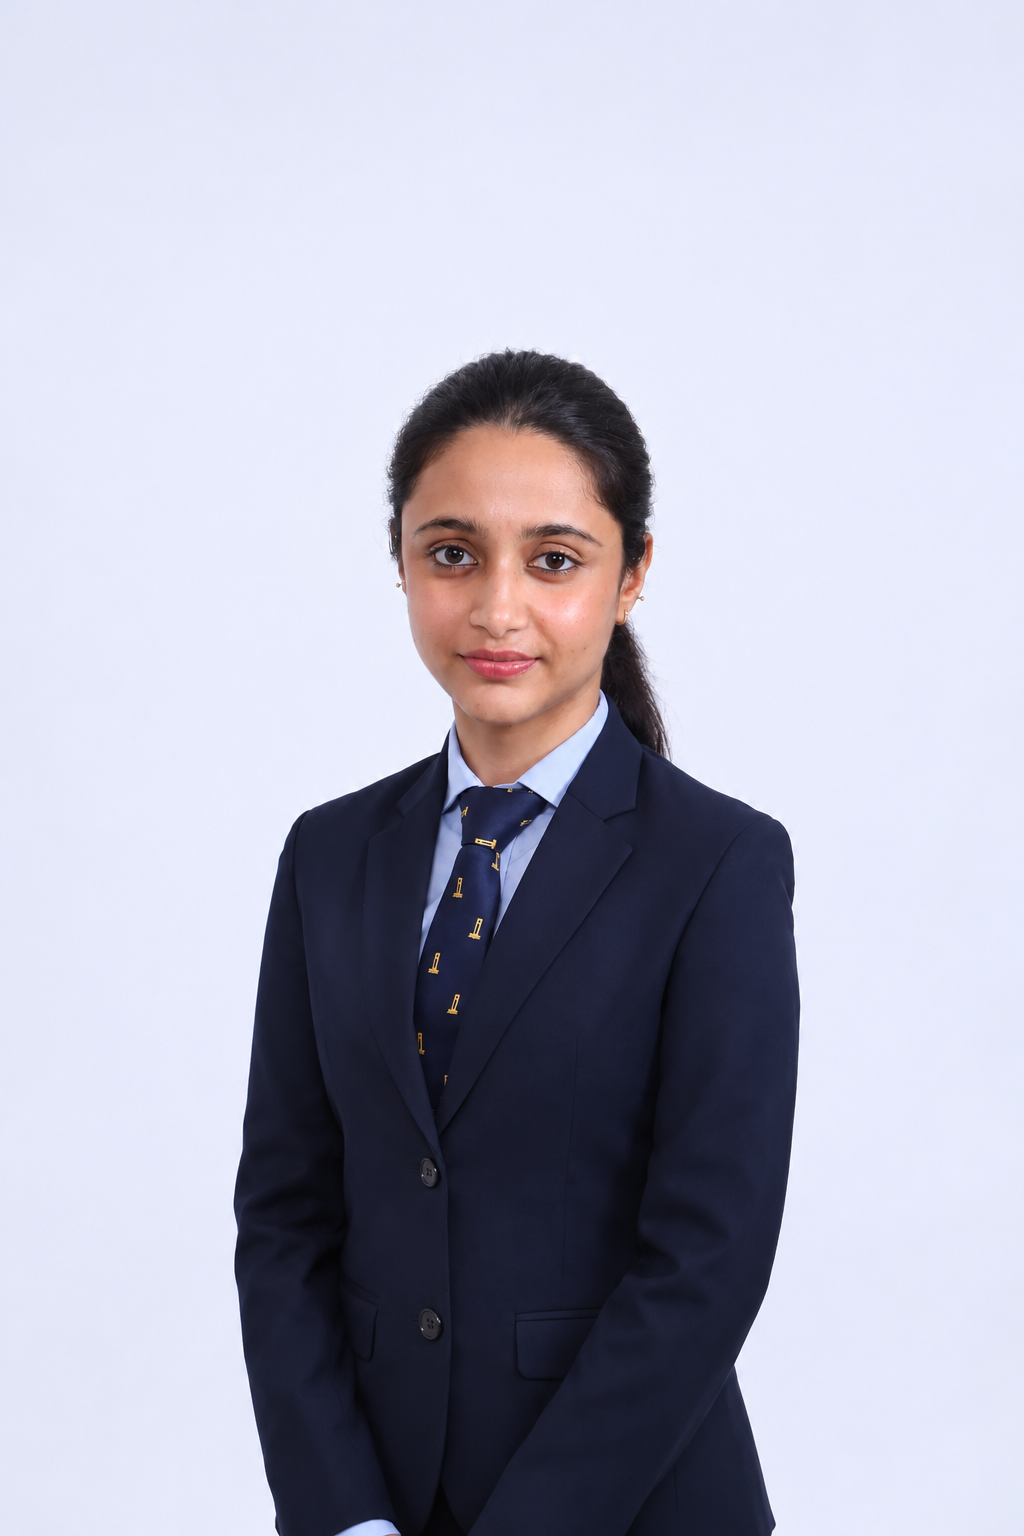
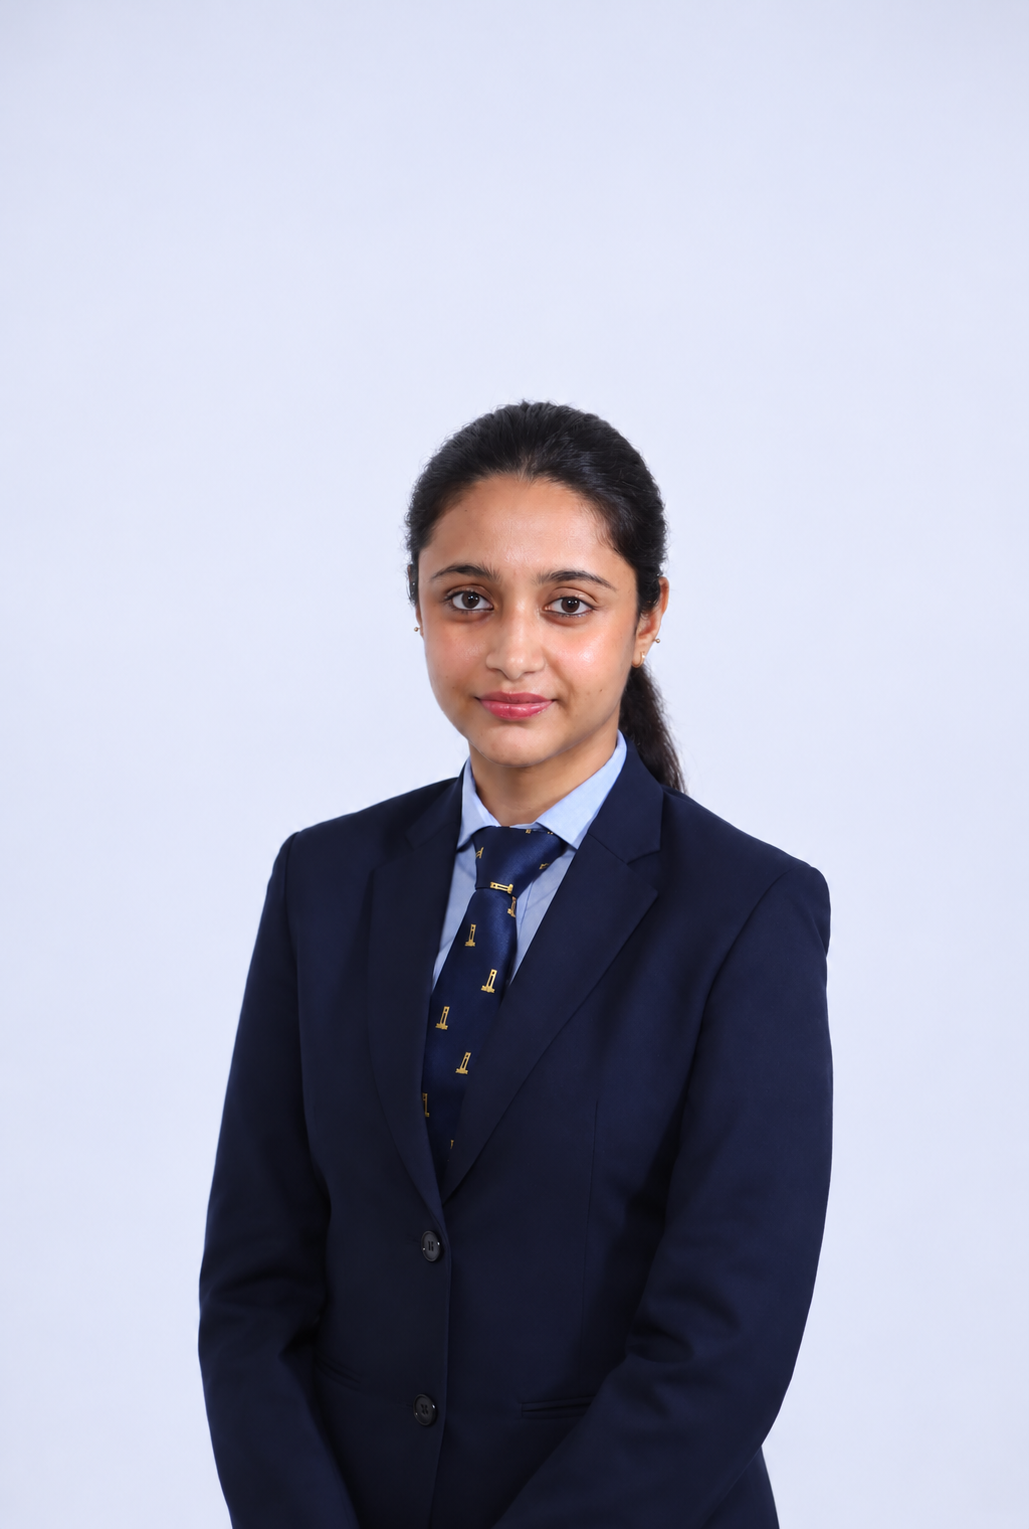
adjust the spacing between different sections accoss teams and service , added third image in slider

diff --git a/app/about/team/page.js b/app/about/team/page.js
@@ -1,81 +1,153 @@
+
 import SubHero from "../../components/SubHero";
 import Link from "next/link";
 
-export const metadata = { title: "Team — The Hospital Increators" };
+export const metadata = {
+  title: "Team — The Hospital Increators",
+};
 
 const LEADERSHIP = [
-  { name: "Dr. Arun Verma", photo: "/images/photo.png", designation: "Director and CEO", href: "/about/dr-arun-verma" },
-  { name: "Dr. Nitin Garg", photo: "/images/image2.png", designation: "Associate", href: "/about/dr-nitin-garg" },
+  {
+    name: "Dr. Arun Verma",
+    photo: "/images/photo.png",
+    designation: "Director and CEO",
+    href: "/about/dr-arun-verma",
+  },
+  {
+    name: "Dr. Nitin Garg",
+    photo: "/images/image2.png",
+    designation: "Associate",
+    href: "/about/dr-nitin-garg",
+  },
 ];
 
 const TEAM = [
-  { id: "team-member-1", name: "Ar. Varun Sharma", photo: "/images/t1.png", designation: "Senior Medical Architect" },
-  { id: "team-member-3", name: "Ar. Hirdesh Sharma", photo: "/images/t3.png", designation: "Senior Medical Architect" },
-  { id: "team-member-2", name: "Kuldeep Singh", photo: "/images/t2.png", designation: "Chartered Accountant | Healthcare Financial Consultant" },
-  { id: "team-member-4", name: "Dr. Harshita Kapil", photo: "/images/t4.png", designation: "BDS, PGDM (Healthcare Management)- IIHMR Delhi" },
-  { id: "team-member-5", name: "Pushkar Chandra", photo: "/images/t5.png", designation: "IT Analyst | B.Tech CSE " },
+  {
+    id: "team-member-1",
+    name: "Ar. Varun Sharma",
+    photo: "/images/t1.png",
+    designation: "Senior Medical Architect",
+  },
+  {
+    id: "team-member-3",
+    name: "Ar. Hirdesh Sharma",
+    photo: "/images/t3.png",
+    designation: "Senior Medical Architect",
+  },
+  {
+    id: "team-member-2",
+    name: "CA Kuldeep Singh",
+    photo: "/images/t2.png",
+    designation:
+      "Healthcare Financial Consultant",
+  },
+  {
+    id: "team-member-4",
+    name: "Dr. Harshita Kapil",
+    photo: "/images/t4.png",
+    designation:
+      "BDS, PGDM (Healthcare Management)- IIHMR Delhi",
+  },
+  {
+    id: "team-member-5",
+    name: "Er. Pushkar Chandra",
+    photo: "/images/t5.png",
+    designation: "IT Analyst | B.Tech CSE",
+  },
 ];
 
 export default function Page() {
   return (
     <>
-      <SubHero title="Our Team" lead="The people behind your project." />
-      <section aria-labelledby="leadership-heading">
-        <h2 id="leadership-heading" style={{ fontSize: 40, marginBottom: 8 }}>The Leadership</h2>
+      <SubHero
+        title="Our Team"
+        lead="The people behind your project."
+      />
+
+      {/* Leadership Section */}
+      <section
+        aria-labelledby="leadership-heading"
+        className="leadership-section"
+      >
+        <h2
+          id="leadership-heading"
+          style={{ fontSize: 40, marginBottom: 8 }}
+        >
+          The Leadership
+        </h2>
+
         <div className="cols">
-          {LEADERSHIP.map(({ name, photo, designation, href }) => (
-            <article
-              key={name}
-              className="glass panel center"
-              style={{ padding: 32, minHeight: 340 }}
-            >
-              <Link href={href} aria-label={`View ${name}'s profile`}>
-                <img
-                  src={photo}
-                  alt={name}
-                  style={{
-                    width: 220,
-                    height: 220,
-                    objectFit: "cover",
-                    borderRadius: "50%",
-                    margin: "0 auto 14px",
-                    display: "block",
-                  }}
-                />
-              </Link>
-              <h3>{name}</h3>
-              <p>{designation}</p>
-            </article>
-          ))}
+          {LEADERSHIP.map(
+            ({ name, photo, designation, href }) => (
+              <article
+                key={name}
+                className="glass panel center"
+                style={{ padding: 32, minHeight: 340 }}
+              >
+                <Link
+                  href={href}
+                  aria-label={`View ${name}'s profile`}
+                >
+                  <img
+                    src={photo}
+                    alt={name}
+                    style={{
+                      width: 220,
+                      height: 220,
+                      objectFit: "cover",
+                      borderRadius: "50%",
+                      margin: "0 auto 14px",
+                      display: "block",
+                    }}
+                  />
+                </Link>
+
+                <h3>{name}</h3>
+                <p>{designation}</p>
+              </article>
+            )
+          )}
         </div>
       </section>
 
-      <section aria-labelledby="team-heading" style={{ marginTop: 40 }}>
+      {/* Team Section */}
+      <section
+        aria-labelledby="team-heading"
+        className="team-leadership"
+      >
         <h2 id="team-heading">The Team</h2>
+
         <div className="cols">
-          {TEAM.map(({ id, name, photo, designation, experience }) => (
-            <article key={id} className="glass panel center">
-              {photo ? (
-                <img
-                  src={photo}
-                  alt={name}
-                  style={{
-                    width: 160,
-                    height: 160,
-                    objectFit: "cover",
-                    borderRadius: "50%",
-                    margin: "0 auto 14px",
-                    display: "block",
-                  }}
-                />
-              ) : (
-                <div className="avatar" aria-hidden="true">+</div>
-              )}
-              <h3>{name}</h3>
-              <p>{designation}</p>
-              <p>{experience}</p>
-            </article>
-          ))}
+          {TEAM.map(
+            ({ id, name, photo, designation }) => (
+              <article
+                key={id}
+                className="glass panel center"
+              >
+                {photo ? (
+                  <img
+                    src={photo}
+                    alt={name}
+                    style={{
+                      width: 160,
+                      height: 160,
+                      objectFit: "cover",
+                      borderRadius: "50%",
+                      margin: "0 auto 14px",
+                      display: "block",
+                    }}
+                  />
+                ) : (
+                  <div className="avatar" aria-hidden="true">
+                    +
+                  </div>
+                )}
+
+                <h3>{name}</h3>
+                <p>{designation}</p>
+              </article>
+            )
+          )}
         </div>
       </section>
     </>

diff --git a/app/globals.css b/app/globals.css
@@ -84,7 +84,9 @@ a{color:inherit;text-decoration:none}
 
 main{max-width:1160px;margin:0 auto;padding:0 22px}
 
-section{padding:110px 0 30px;scroll-margin-top:60px}
+section{padding:110px 0 2px;scroll-margin-top:60px}
+section#services{padding-top:20px}
+@media(max-width:900px){section#services{padding-top:9px}}
 
 .hero{padding-top:170px;text-align:center}
 
@@ -1332,29 +1334,26 @@ button:disabled,
   background: #201612;
 }
 
+
+/* Slider track - 4 slides including duplicate */
+
 /* Slider track */
 .yc-slider {
   display: flex;
-  width: 200%;
+  width: 400%;
   height: 100%;
-  animation: ycSlide 8s infinite;
+  animation: ycSlide 12s infinite;
 }
 
 /* Individual slides */
 .yc-slide {
-  flex: 0 0 50%;
-  width: 50%;
+  flex: 0 0 25%;
+  width: 25%;
   height: 100%;
   display: flex;
   align-items: center;
   justify-content: center;
   overflow: hidden;
-  background: #201612;
-}
-
-/* Both slide backgrounds */
-.yc-slide:first-child,
-.yc-slide:last-child {
   background: #201612;
 }
 
@@ -1367,20 +1366,25 @@ button:disabled,
   object-position: center;
 }
 
-/* Sliding animation */
+/* Smooth three-image looping */
 @keyframes ycSlide {
-  0%, 45% {
+  0%, 22% {
     transform: translateX(0);
   }
 
-  50%, 95% {
+  25%, 47% {
+    transform: translateX(-25%);
+  }
+
+  50%, 72% {
     transform: translateX(-50%);
   }
 
-  100% {
-    transform: translateX(0);
+  75%, 100% {
+    transform: translateX(-75%);
   }
 }
+
 
 /* Mobile responsive */
 
@@ -1405,5 +1409,28 @@ button:disabled,
 @media (prefers-reduced-motion: reduce) {
   .yc-slider {
     animation: none;
+  }
+}
+
+/* Leadership section - reduce gap after Our Team intro */
+.leadership-section {
+  padding-top: 20px;
+}
+
+/* Mobile spacing */
+@media (max-width: 900px) {
+  .leadership-section {
+    padding-top: 12px;
+  }
+}
+
+/* Existing Team section spacing - preserved */
+.team-leadership {
+  padding: 35px 0 15px;
+}
+
+@media (max-width: 900px) {
+  .team-leadership {
+    padding-top: 45px;
   }
 }

diff --git a/app/page.js b/app/page.js
@@ -140,20 +140,31 @@ export default function Page() {
       <Island />
       <main>
         <div className="yc-brandmark">
-          <div className="yc-slider">
-            <div className="yc-slide">
-              <img
-                src="/images/bg.png"
-                alt="Building Hospitals. Transforming Healthcare. Shaping Tomorrow."
-              />
-            </div>
-            <div className="yc-slide">
-              <img
-                src="/images/services.png"
-                alt="The Hospital Increators - Services and Expertise"
-              />
-            </div>
-          </div>
+        
+<div className="yc-slider">
+
+  {/* Slide 1 */}
+  <div className="yc-slide">
+    <img src="/images/bg.png" alt="Building Hospitals" />
+  </div>
+
+  {/* Slide 2 */}
+  <div className="yc-slide">
+    <img src="/images/services.png" alt="Services and Expertise" />
+  </div>
+
+  {/* Slide 3 */}
+  <div className="yc-slide">
+    <img src="/images/company.png" alt="A Company by Former AIIMS Faculty" />
+  </div>
+
+  {/* Slide 4 - Duplicate of first image */}
+  <div className="yc-slide">
+    <img src="/images/bg.png" alt="Building Hospitals" />
+  </div>
+
+</div>
+
         </div>
 
         <section className="yc-hero">
